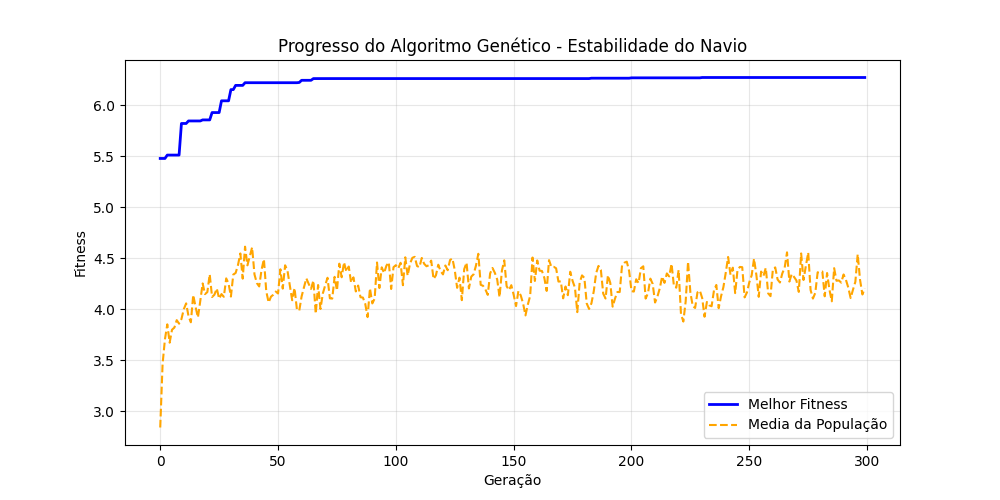
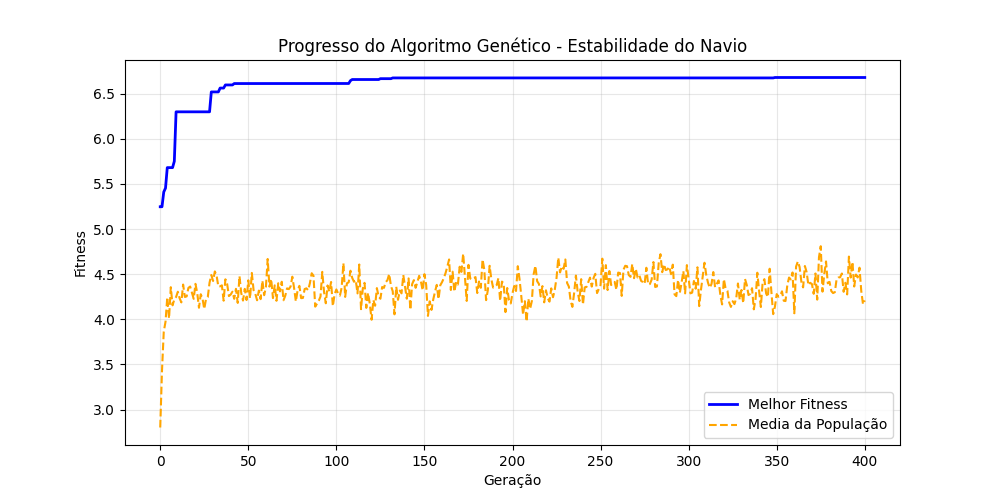
ajuste da saída do passo a passo do AG

diff --git a/app/optimization/unloading/unloading_ga.py b/app/optimization/unloading/unloading_ga.py
@@ -220,7 +220,7 @@ class Argo:
                     else " -> Deixado em Estoque"
                 )
                 print(
-                    f"[{tempo_guidaste:06.1f}] Guindaste (Passo {passo:02d}): Moveu container {cor} para o Pier (Y:{pier_y + 1} X:{pier_x + 1} Z;{largar_z + 1}) {tag}"
+                    f"[{tempo_guidaste:06.1f}] Guindaste (Passo {passo:02d}): Moveu container {cor} (Y:{barco_y + 1} X:{barco_x + 1} Z;{pegar_z + 1}) para o Pier (Y:{pier_y + 1} X:{pier_x + 1} Z;{largar_z + 1}) {tag}"
                 )
 
             while len(manager.pier_unassigned) >= 2:

diff --git a/app/optimization/unloading/port_manager.py b/app/optimization/unloading/port_manager.py
@@ -57,7 +57,7 @@ class PortManager:
         if self.log:
             destinos = [item["dest"] for item in trip_c]
             print(
-                f"[{t_start:06.1f}] Carrerista {c} saiu com {qtd} entregas para {destinos}"
+                f"[{t_start:06.1f}] Carrerista {c + 1} saiu com {qtd} entregas para {destinos}"
             )
 
         return True

diff --git a/app/config.py b/app/config.py
@@ -3,9 +3,9 @@ import numpy as np
 NUM_INDIVIDUOS = 100
 MARGEM_ERRO = 50
 NUM_CONTAINERS = 24
-NUM_GERACOES = 300
+NUM_GERACOES = 401
 
-NUM_CARRERISTAS = 2
+NUM_CARRERISTAS = 3
 CAPACIDADE_MAX = 2
 
 PESO_CONTAINER = 57.0
